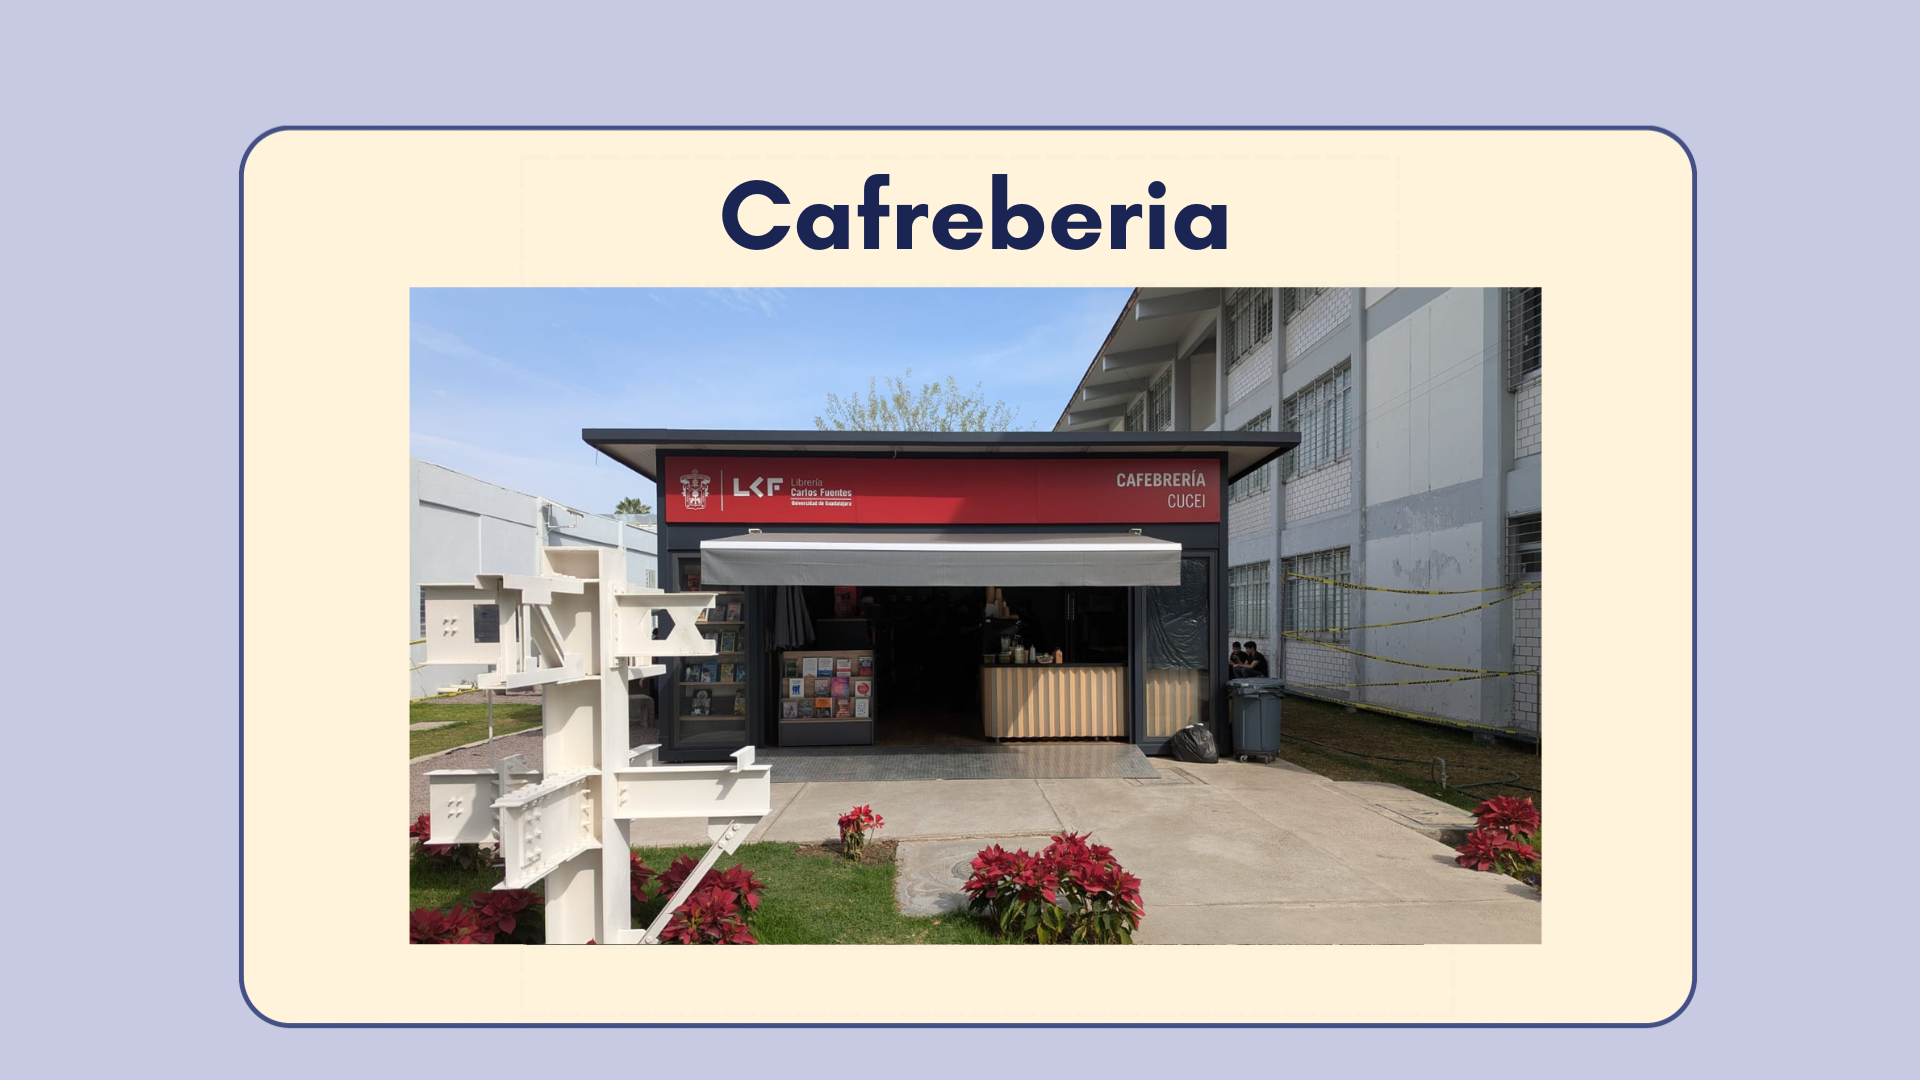
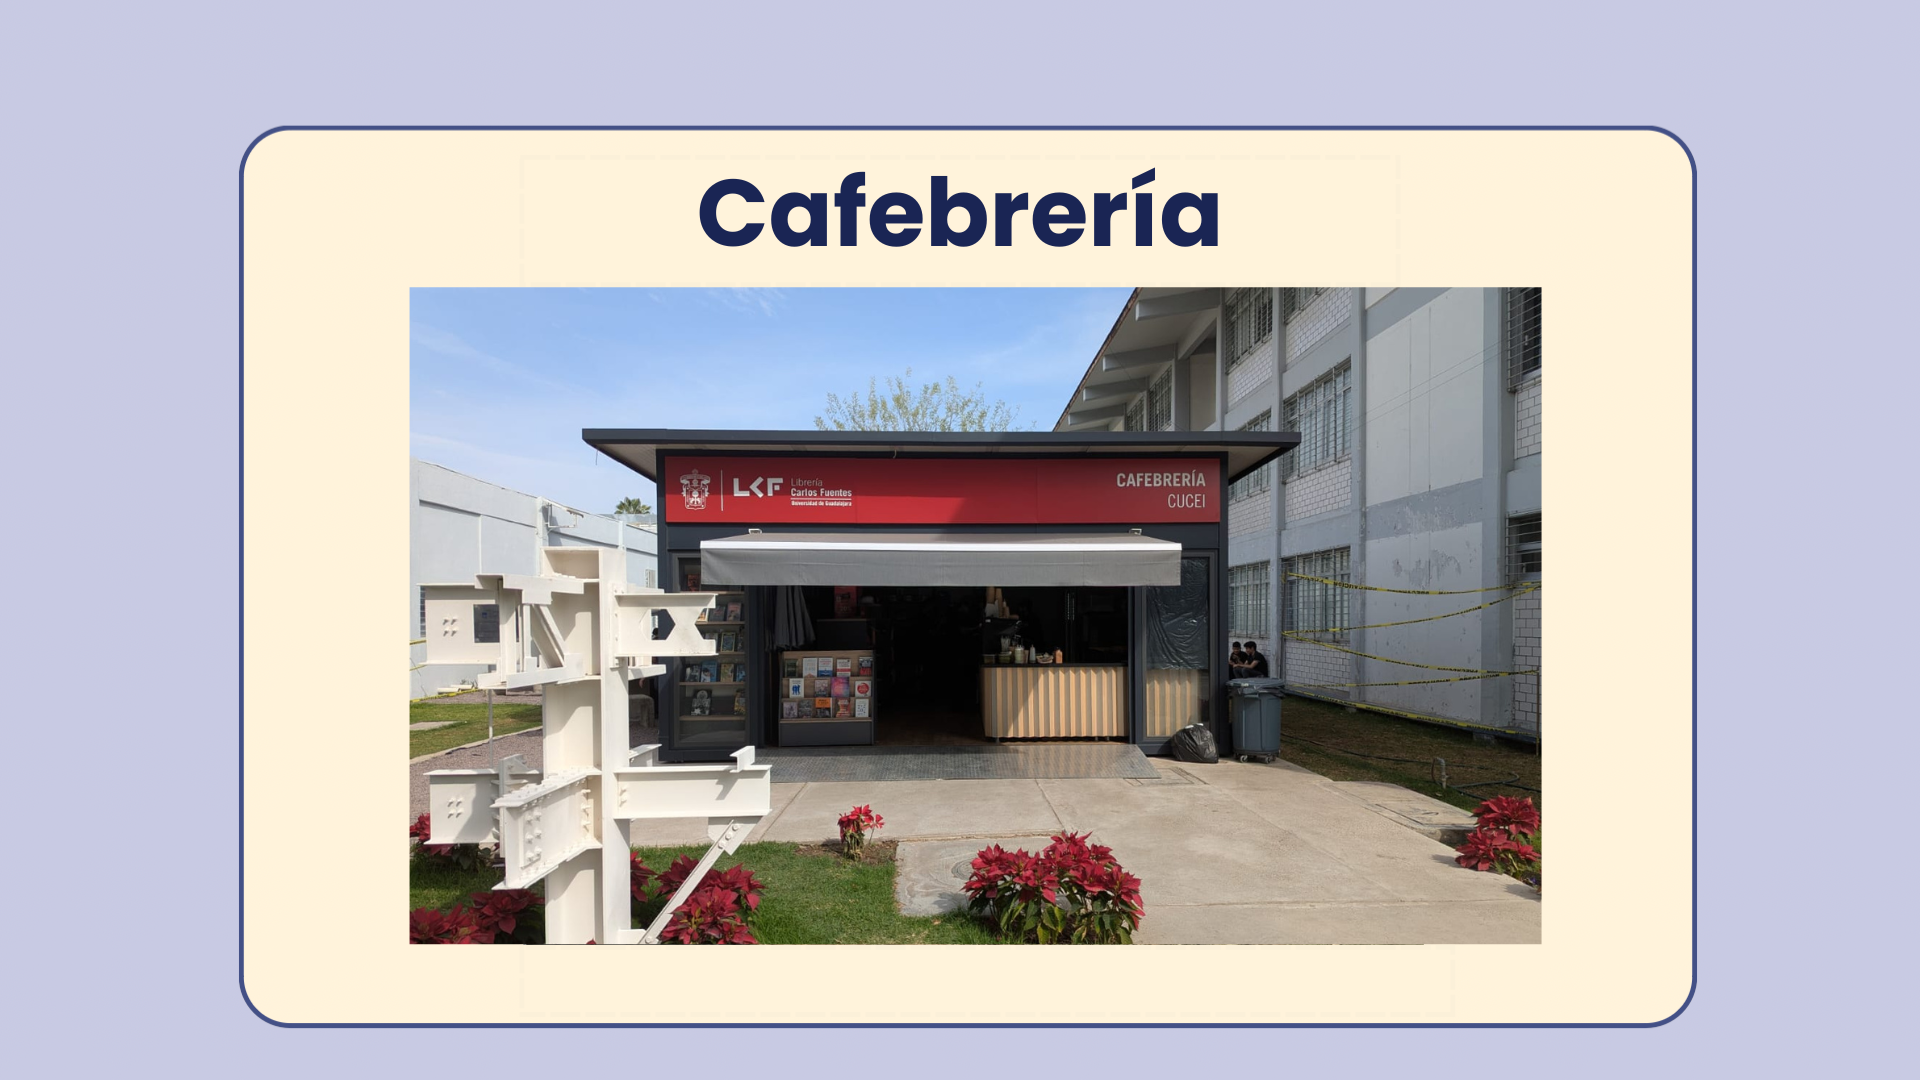
fix: cafebreria image and map data corrected

Changed region(s): [[0.3438, 0.1528, 0.6562, 0.2444]]

diff --git a/Src/Screens/Home/Components/BottonSheetComponent/bottomSheetContents.js b/Src/Screens/Home/Components/BottonSheetComponent/bottomSheetContents.js
@@ -544,19 +544,19 @@ export const bottomSheetContents = {
     description:
       "La Biblioteca CUCEI ofrece espacios de estudio y coworking. En el segundo piso se encuentra el Programa de Intercambios y una papelería para apoyo estudiantil.",
   },
-    "Entrada Revolucion": {
-      name: "Entrada Revolucion",
-      classrooms: "",
-      "relevant-places": ["-"],
-      bathrooms:[ "-"],
-      "images-path": [require ("./Modulos/Entradas/Entrada-Revolucion1.png")],
-      description:
-        "La entrada por Revolución es una de las más concurridas por los estudiantes, ya que es la entrada principal al campus.",
-    },
+  "Entrada Revolucion": {
+    name: "Entrada Revolucion",
+    classrooms: "",
+    "relevant-places": ["-"],
+    bathrooms: ["-"],
+    "images-path": [require("./Modulos/Entradas/Entrada-Revolucion1.png")],
+    description:
+      "La entrada por Revolución es una de las más concurridas por los estudiantes, ya que es la entrada principal al campus.",
+  },
   "Entrada Olimpica": {
     name: "Entrada Olimpica",
     classrooms: "",
-    "relevant-places":[ "-"],
+    "relevant-places": ["-"],
     bathrooms: ["-"],
     "images-path": [
       require("./Modulos/Entradas/Entrada-Olimpica1.png"),

diff --git a/Src/Screens/Home/Components/MapComponent/data.js b/Src/Screens/Home/Components/MapComponent/data.js
@@ -299,7 +299,7 @@ export const points = [
   {
     id: "Modulo Q2",
     name: "Módulo Q2",
-    aliases: ["modulo q2", "Edificio Q2", "edificio q2"],
+    aliases: ["modulo q2", "MQ2", "Edificio Q2", "edificio q2"],
     node: 'n183',
     left: 685,
     top: 698,
@@ -398,7 +398,7 @@ export const points = [
   {
     id: "Modulo X",
     name: "Módulo X",
-    aliases: ["modulo x", "Edificio X", "edificio x"],
+    aliases: ["modulo x", "MX", "Edificio X", "edificio x"],
     node: 'n199',
     left: 317,
     top: 496,
@@ -420,7 +420,7 @@ export const points = [
   {
     id: "Modulo Z",
     name: "Módulo Z",
-    aliases: ["modulo z", "Edificio Z", "edificio z"],
+    aliases: ["modulo z", "MZ", "Edificio Z", "edificio z"],
     node: 'n170',
     left: 253,
     top: 653,
@@ -431,7 +431,7 @@ export const points = [
   {
     id: "Modulo Z1",
     name: "Módulo Z1",
-    aliases: ["modulo z1", "Edificio Z1", "edificio z1"],
+    aliases: ["modulo z1", "MZ1", "Edificio Z1", "edificio z1"],
     node: 'n169',
     left: 225,
     top: 642,
@@ -475,7 +475,7 @@ export const points = [
   {
     id: "comida",
     name: "Comida",
-    aliases: ["Revolucion", "Entrada", "Entrada Revolucion"],
+    aliases: ["comida V", "comida T"],
     node: 'n201',
     left: 410,
     top: 444,
@@ -486,7 +486,7 @@ export const points = [
   {
     id: "Comida15",
     name: "Comida15",
-    aliases: ["comida T", "Entrada", "Entrada Revolucion"],
+    aliases: ["comida T",],
     node: 'n202',
     left: 632,
     top: 540,
@@ -547,5 +547,5 @@ export const points = [
     top: 737,
     height: 13,
     width: 28,
-  },
+  }
 ]